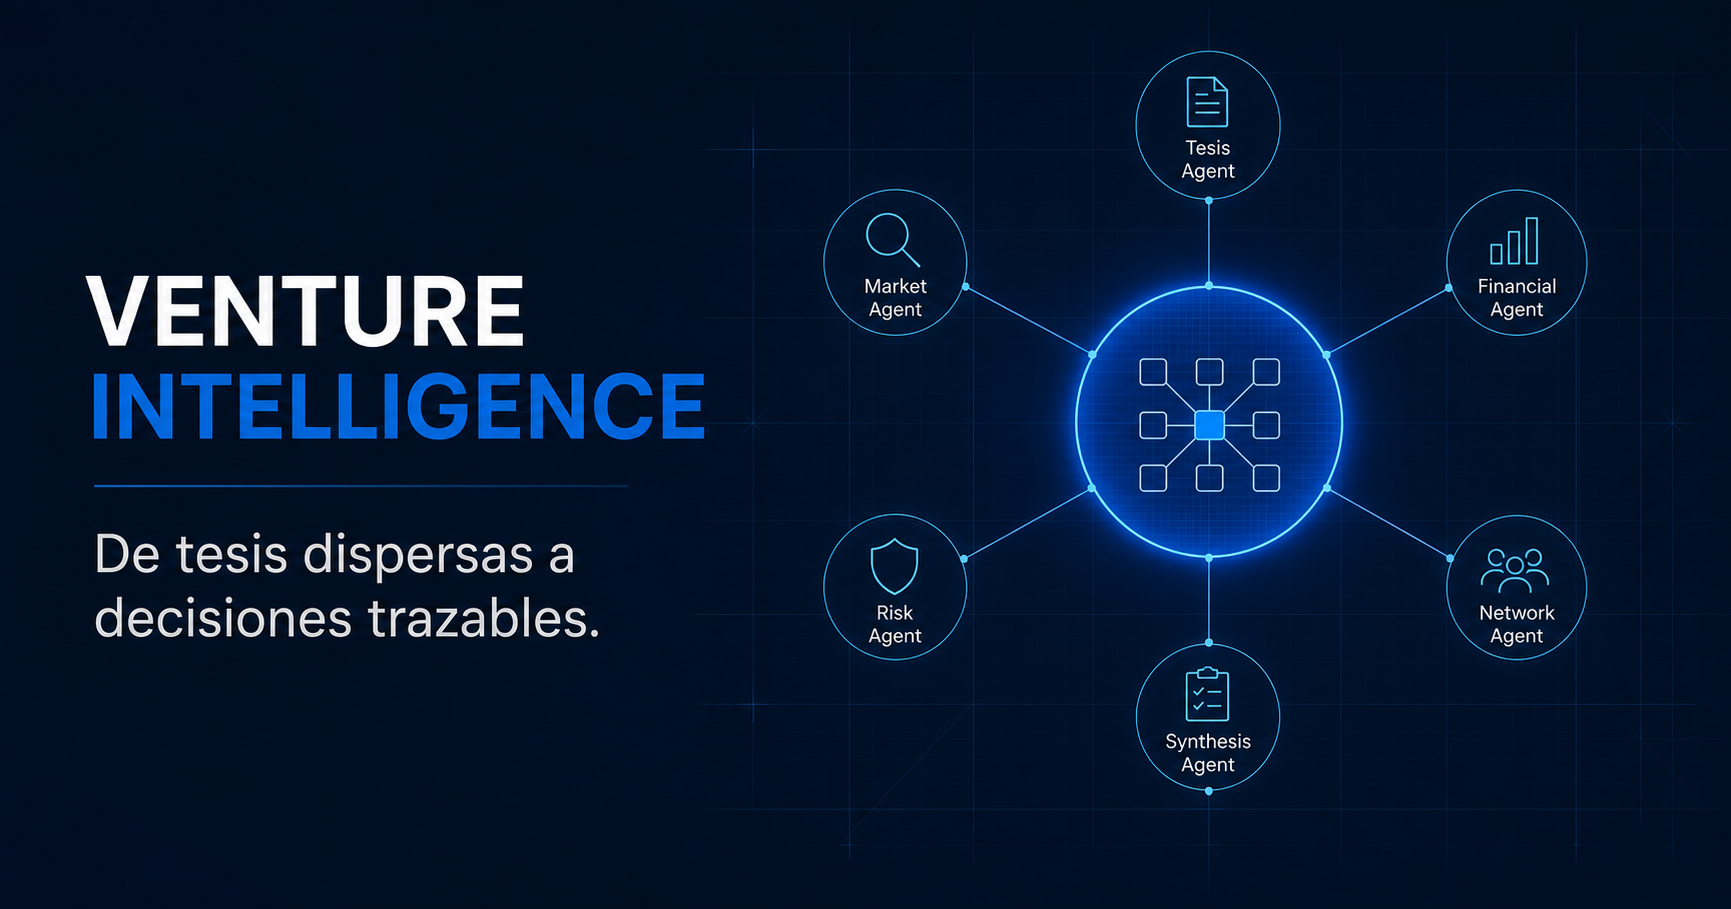
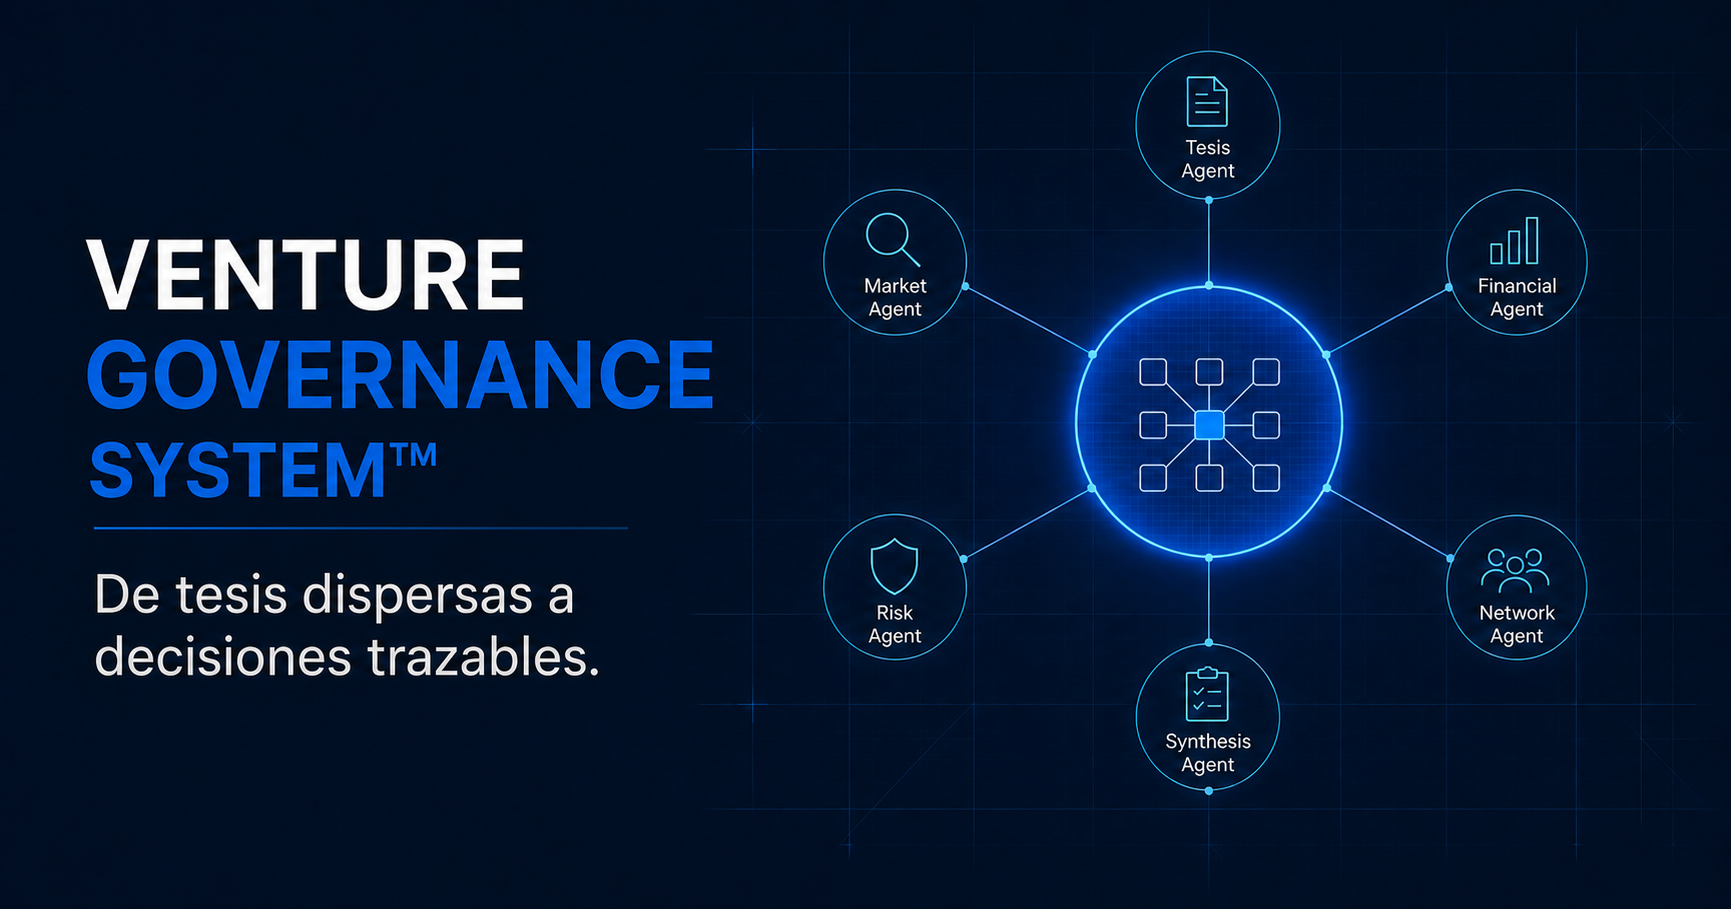
Rename site to Venture Governance System

diff --git a/src/components/sections/ExecutiveSummary.tsx b/src/components/sections/ExecutiveSummary.tsx
@@ -13,11 +13,11 @@ export function ExecutiveSummary() {
         <SectionHeading
           eyebrow="Resumen ejecutivo"
           title="Un sistema para ampliar el universo de oportunidades."
-          description="Venture Intelligence System coordina inteligencia especializada para detectar, explicar y priorizar oportunidades que difícilmente surgirían de un análisis tradicional."
+          description="Venture Governance System coordina inteligencia especializada para detectar, explicar y priorizar oportunidades que difícilmente surgirían de un análisis tradicional."
         />
         <div className="executive-layout">
           <div className="executive-copy">
-            <p>Venture Intelligence System es un orquestador de agentes de inteligencia artificial especializados en economía, matemática aplicada, estrategia, negocios, teoría de juegos, criptografía, tecnología, blockchain y desarrollo de empresas. Trabajan de forma coordinada con modelos de lenguaje que investigan continuamente nuevas tendencias, problemas, tecnologías y combinaciones entre industrias. El sistema identifica posibles ideas de startups y analiza por qué podrían funcionar, cómo construirlas, qué modelo de negocio utilizar, cuáles son sus riesgos y qué pasos permitirían convertirlas en empresas reales.</p>
+            <p>Venture Governance System es un orquestador de agentes de inteligencia artificial especializados en economía, matemática aplicada, estrategia, negocios, teoría de juegos, criptografía, tecnología, blockchain y desarrollo de empresas. Trabajan de forma coordinada con modelos de lenguaje que investigan continuamente nuevas tendencias, problemas, tecnologías y combinaciones entre industrias. El sistema identifica posibles ideas de startups y analiza por qué podrían funcionar, cómo construirlas, qué modelo de negocio utilizar, cuáles son sus riesgos y qué pasos permitirían convertirlas en empresas reales.</p>
             <p>Como puede generar miles de hipótesis, utiliza modelos matemáticos predefinidos, simulaciones de Monte Carlo, análisis de sensibilidad y criterios probabilísticos para clasificarlas como débiles, prometedoras, muy prometedoras o excepcionales. Automatiza y fortalece la exploración, generación, filtrado y priorización inicial en Venture Capital, sin reemplazar a fundadores, equipos, capital, validación comercial ni gestión operativa. Cuando una oportunidad lo requiere, los agentes pueden construir un MVP inicial para aportar evidencia antes de una inversión. La misma infraestructura sirve para investigación estratégica, innovación corporativa y exploración de nuevos mercados.</p>
           </div>
           <aside className="executive-boundary">

diff --git a/src/components/sections/ProblemSolution.tsx b/src/components/sections/ProblemSolution.tsx
@@ -37,19 +37,19 @@ export function ProblemSolution() {
           <SectionHeading
             eyebrow="02 · Solución"
             title="Un sistema operativo para explorar decisiones de venture."
-            description="Venture Intelligence organiza agentes especializados alrededor de un flujo común: convertir señales e hipótesis en modelos, evidencia, escenarios y experimentos comparables."
+            description="Venture Governance System organiza agentes especializados alrededor de un flujo común: convertir señales e hipótesis en modelos, evidencia, escenarios y experimentos comparables."
           />
           <div className="transformation-grid">
             <div className="transform-column">
               <p className="column-label">Materia prima</p>
               {VALUE_TRANSFORMATION.map((item) => <div className="transform-input" key={item.input}>{item.input}</div>)}
             </div>
-            <div className="transform-engine" aria-label="Proceso de Venture Intelligence">
-              <div className="engine-top"><span>VENTURE</span><span>INTELLIGENCE</span></div>
+            <div className="transform-engine" aria-label="Proceso de Venture Governance System">
+              <div className="engine-top"><span>VENTURE</span><span>GOVERNANCE</span></div>
               <div className="engine-layers">
                 <span>Descubrir</span><span>Diseñar</span><span>Contrastar</span><span>Simular</span><span>Decidir</span>
               </div>
-              <div className="engine-core">VI<span>orquestación multiagente</span></div>
+              <div className="engine-core">VG<span>orquestación multiagente</span></div>
               <p>Cada entrega conserva fuentes, supuestos, confianza y revisiones.</p>
             </div>
             <div className="transform-column transform-column--output">

diff --git a/src/components/sections/WhitepaperSection.tsx b/src/components/sections/WhitepaperSection.tsx
@@ -13,9 +13,9 @@ export function WhitepaperSection() {
           description="Versión 1.0 del documento maestro: arquitectura, roles, métodos cuantitativos, algoritmos, producto, implementación y gobierno responsable."
         />
         <div className="whitepaper-shell">
-          <div className="whitepaper-cover" aria-label="Portada estilizada del whitepaper Venture Intelligence OS, marca comercial">
+          <div className="whitepaper-cover" aria-label="Portada estilizada del whitepaper Venture Governance System, marca comercial">
             <div className="cover-meta"><span>DOCUMENTO ESTRATÉGICO</span><span>VERSIÓN {WHITEPAPER_META.version}</span></div>
-            <h3>Venture<br />Intelligence <em>OS<sup>™</sup></em></h3>
+            <h3>Venture<br />Governance <em>System<sup>™</sup></em></h3>
             <p>Arquitectura multiagente para explorar, diseñar, simular y priorizar oportunidades de Venture Capital.</p>
             <div className="cover-wave"><i /><i /><i /><i /></div>
             <div className="cover-bottom"><span>{WHITEPAPER_META.date}</span><span>{WHITEPAPER_META.pages} páginas</span></div>

diff --git a/src/config/site.ts b/src/config/site.ts
@@ -4,7 +4,7 @@
  * Ningún componente debería contener URLs escritas directamente.
  */
 
-export const PROJECT_NAME = "Venture Intelligence OS™";
+export const PROJECT_NAME = "Venture Governance System™";
 export const PROJECT_TAGLINE = "De tesis dispersas a decisiones trazables.";
 export const PROJECT_DESCRIPTION =
   "Arquitectura conceptual multiagente para descubrir, modelar y evaluar oportunidades de inversión con evidencia, simulación y supervisión humana.";
@@ -27,7 +27,7 @@ export const PRIMARY_CTA_URL = "#solucion";
 export const SECONDARY_CTA_URL = "#arquitectura";
 
 // Reemplazá por el dominio final para canonical, sitemap y previews sociales.
-export const SITE_URL = "https://venture-intelligence-lab.franciscoariellopez2.chatgpt.site";
+export const SITE_URL = "https://venturegovernance.com";
 
 export const FOOTER_TEXT =
   "Sistema conceptual de apoyo a decisiones. No constituye asesoramiento financiero ni reemplaza el criterio de un comité de inversión.";

diff --git a/src/components/layout/BrandIntro.tsx b/src/components/layout/BrandIntro.tsx
@@ -2,8 +2,8 @@
 
 import { useEffect, useState } from "react";
 
-const INTRO_KEY = "venture-intelligence-intro-seen";
-const SOUND_KEY = "venture-intelligence-sound";
+const INTRO_KEY = "venture-governance-intro-seen";
+const SOUND_KEY = "venture-governance-sound";
 
 export function BrandIntro() {
   const [visible, setVisible] = useState(true);
@@ -40,8 +40,8 @@ export function BrandIntro() {
       <div className="intro-lockup">
         <div className="intro-mark"><i /><i /><i /><span>™</span></div>
         <div className="intro-wordmark">
-          <small>VENTURE INTELLIGENCE</small>
-          <strong>OS<span>™</span></strong>
+          <small>VENTURE GOVERNANCE</small>
+          <strong>SYSTEM<span>™</span></strong>
         </div>
       </div>
       <div className="intro-progress"><i /></div>

diff --git a/src/components/sections/StrategyLab.tsx b/src/components/sections/StrategyLab.tsx
@@ -30,7 +30,7 @@ export function StrategyLab() {
         </div>
         <div className="strategy-layout">
           <div className="strategy-canvas" aria-label="Curva de valor conceptual editable">
-            <div className="canvas-legend"><span><i className="incumbent-line" /> Proceso tradicional</span><span><i className="concept-line" /> Concepto VI</span></div>
+            <div className="canvas-legend"><span><i className="incumbent-line" /> Proceso tradicional</span><span><i className="concept-line" /> Concepto VG</span></div>
             {BLUE_OCEAN_FACTORS.map((factor, index) => (
               <div className="factor-row" key={factor.label}>
                 <label htmlFor={`factor-${index}`}>{factor.label}</label>

diff --git a/app/layout.tsx b/app/layout.tsx
@@ -13,7 +13,7 @@ export const metadata: Metadata = {
     type: "website",
     locale: "es_AR",
     url: SITE_URL,
-    images: [{ url: "/og.png", width: 1733, height: 909, alt: "Venture Intelligence — red multiagente institucional" }],
+    images: [{ url: "/og.png", width: 1733, height: 909, alt: "Venture Governance System — red multiagente institucional" }],
   },
   twitter: {
     card: "summary_large_image",

diff --git a/src/components/ui/SoundController.tsx b/src/components/ui/SoundController.tsx
@@ -17,7 +17,7 @@ const SOUND_VOLUMES: Record<SoundName, number> = {
 };
 
 const INTERACTIVE_SELECTOR = "a, button, summary, input[type='range'], [role='button']";
-const STORAGE_KEY = "venture-intelligence-sound";
+const STORAGE_KEY = "venture-governance-sound";
 
 export function SoundController() {
   const [enabled, setEnabled] = useState(true);
